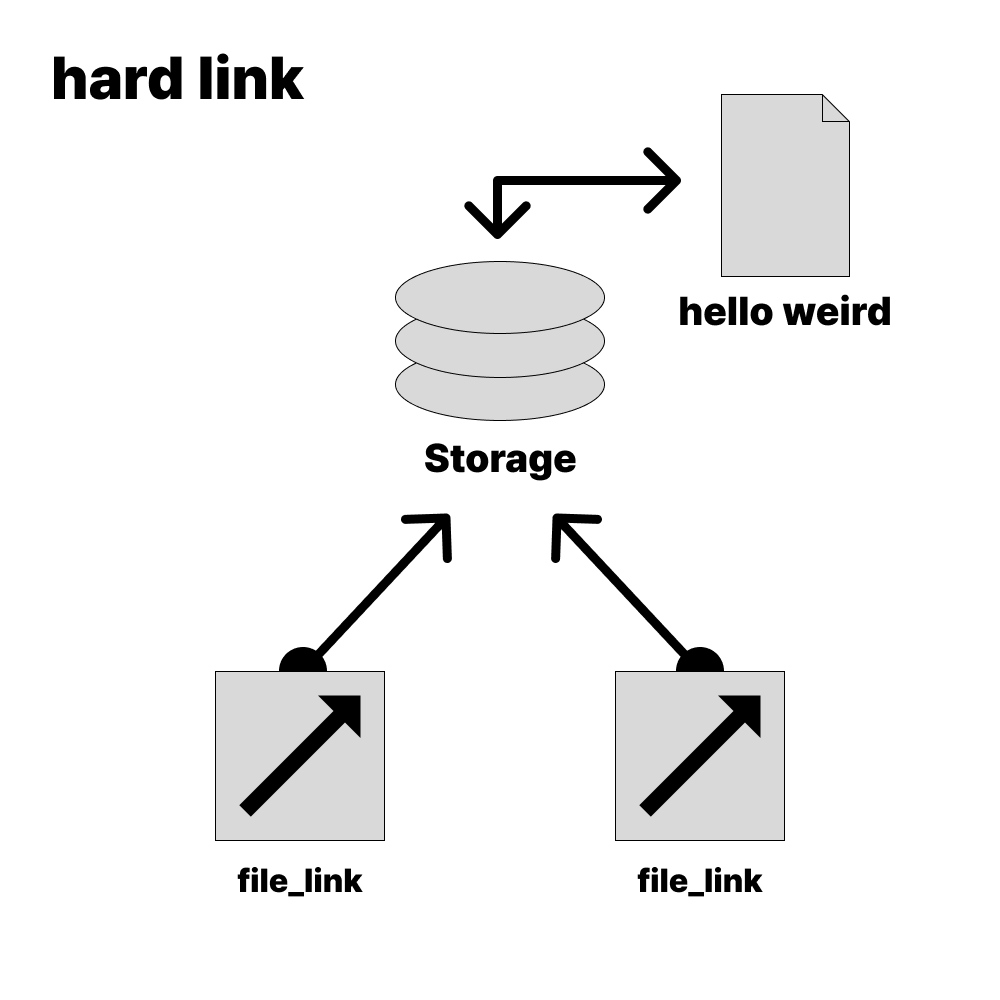
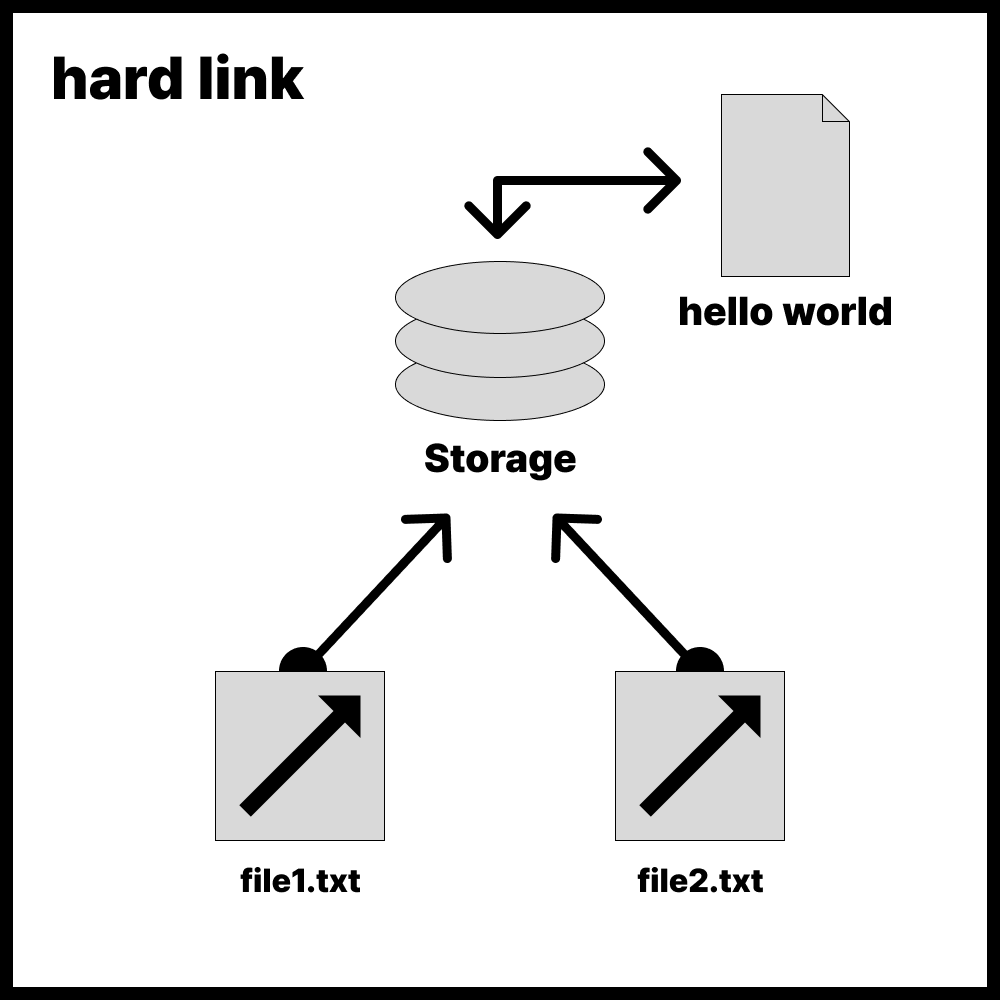
minor changes on link post

diff --git a/_posts/2022-07-14-Linux의-Symbolic-Hard-Link.md b/_posts/2022-07-14-Linux의-Symbolic-Hard-Link.md
@@ -32,7 +32,17 @@ Symbolic link랑 Hard link의 개념이 처음 접했을 때 왜 헷갈렸는지
 
 ![](/assets/posts/220714/slink.png)
 
+file_link라는 심볼릭 링크를 만들고, 그 심볼릭 링크를 file.txt에 연결한다는 의미. 바로가기를 만들었다고 이해하면 될 것 같다.
+
 ![](/assets/posts/220714/hardlink.png)
+
+file1.txt와 file2.txt는 **이름은 다르지만 내용은 동일하다**. file1과 file2는 스토리지 내부에서 동일한 위치를 가리키고 있기 때문에 file1을 열어보면 "hello world"라는 텍스트가 나오고, file2 역시 동일하다. 
+file1을 수정해도 file2에서도 변경된 내용이 표출된다.
+
+file1.txt를 삭제하면 어떻게 될까?
+
+file1.txt는 지워져도 "hello world"는 file2.txt를 통해 접근할 수 있다.
+왜냐하면 이 둘은 근본적으로 동일한 저장소 주소를 가리키고 있기 때문이다.
 
 
 # ln 명령어
@@ -63,7 +73,7 @@ hard link를 생성할 때, 각 TARGET은 반드시 존재해야 합니다.
 	기 존재하는 LINK_NAME 이름의 파일을 제거합니다.
 
 -s, --symbolic
-	hard link 대신 soft link를 생성합니다.
+	hard link 대신 symbolic link를 생성합니다.
 
 
 
